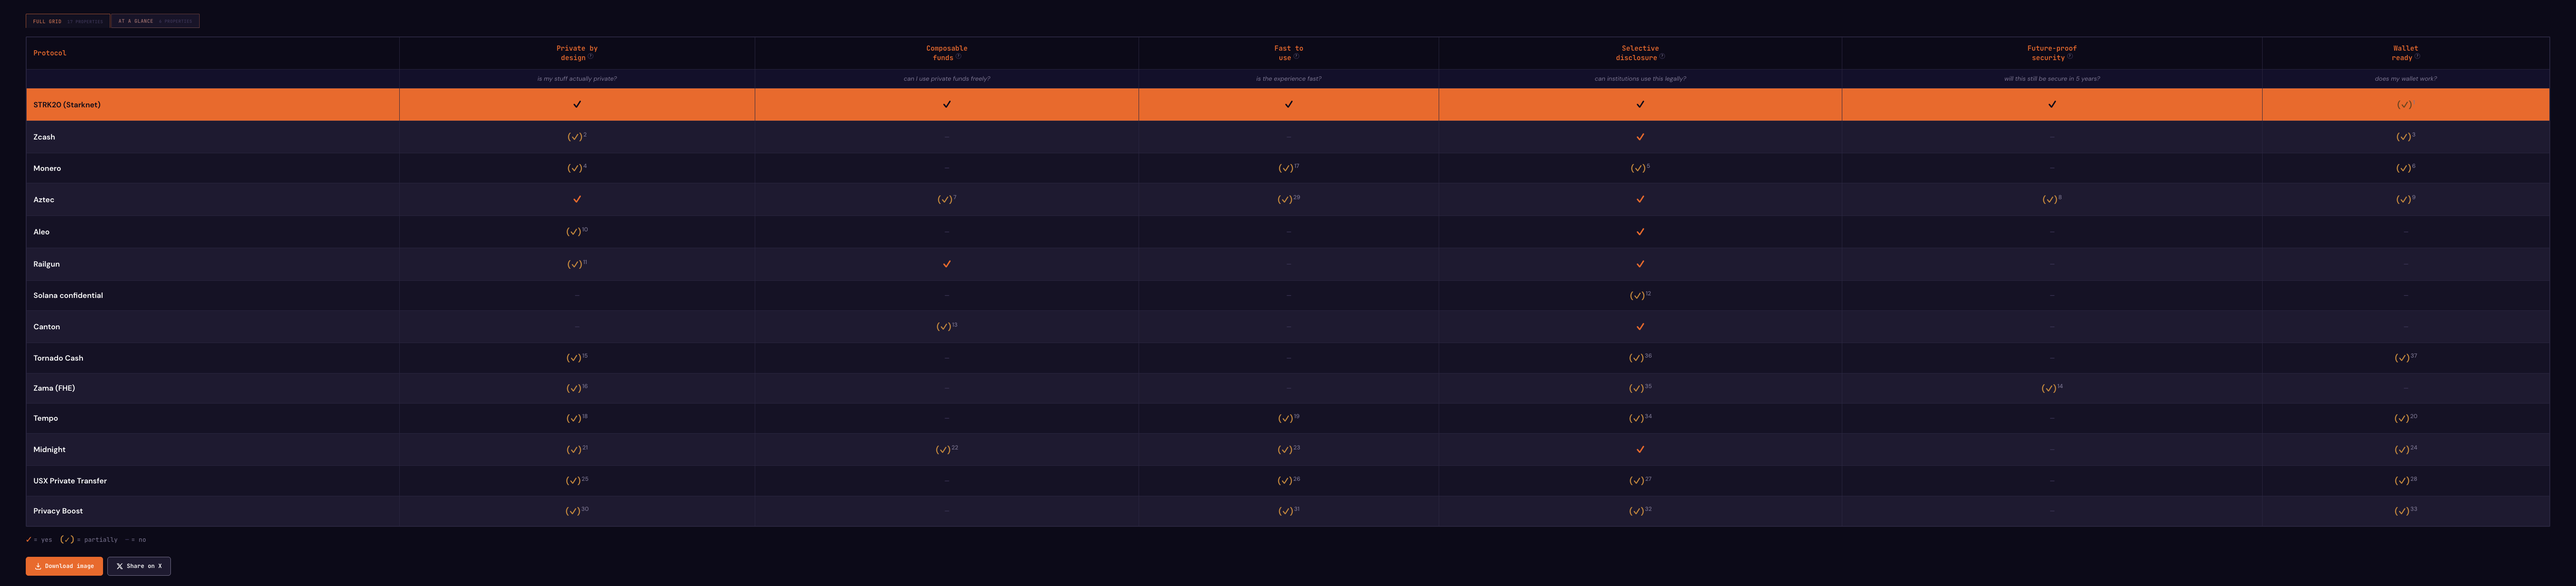
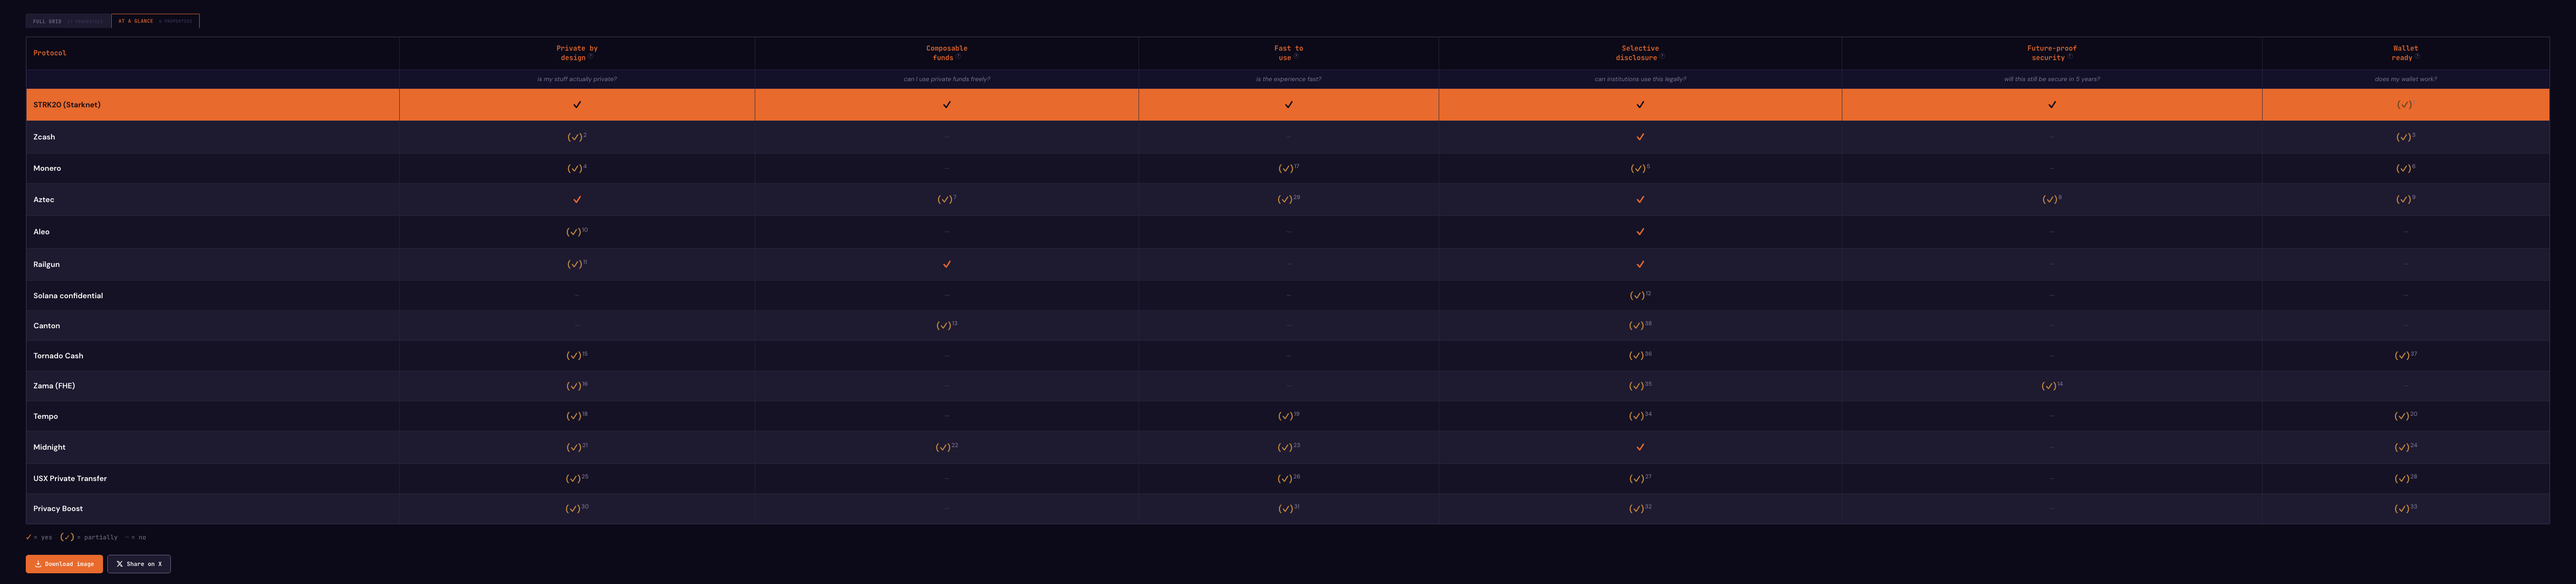
Address grid audit followups

diff --git a/docs/index.html b/docs/index.html
@@ -20,6 +20,11 @@
   "operatingSystem": "Web",
   "creator": {
     "@type": "Organization",
+    "name": "StarkWare Industries Ltd.",
+    "url": "https://starkware.co/"
+  },
+  "contributor": {
+    "@type": "Organization",
     "name": "welttowelt",
     "url": "https://github.com/welttowelt"
   },
@@ -32,9 +37,9 @@
 <!-- Open Graph -->
 <meta property="og:title" content="Privacy Protocol Grid">
 <meta property="og:description" content="What 14 crypto privacy protocols actually deliver: STRK20, Zcash, Monero, Aztec, Aleo, Railgun, Midnight, Tempo, USX, Privacy Boost. 17 properties, sources listed in footnotes.">
-<meta property="og:image" content="https://privacygrid.dev/privacy_grid_image.png?v=16">
+<meta property="og:image" content="https://privacygrid.dev/privacy_grid_image.png?v=17">
 <meta property="og:image:width" content="6000">
-<meta property="og:image:height" content="1439">
+<meta property="og:image:height" content="1441">
 <meta property="og:url" content="https://privacygrid.dev/">
 <meta property="og:type" content="website">
 <meta property="og:site_name" content="Privacy Protocol Grid">
@@ -43,7 +48,7 @@
 <meta name="twitter:card" content="summary_large_image">
 <meta name="twitter:title" content="Privacy Protocol Grid">
 <meta name="twitter:description" content="14 protocols. 17 properties. Sources in footnotes.">
-<meta name="twitter:image" content="https://privacygrid.dev/privacy_grid_image.png?v=16">
+<meta name="twitter:image" content="https://privacygrid.dev/privacy_grid_image.png?v=17">
 <meta name="twitter:image:alt" content="Privacy Protocol Grid comparing 14 protocols across 17 properties">
 
 <link rel="icon" type="image/svg+xml" href="favicon.svg">
@@ -88,7 +93,7 @@
     <span class="status-sep">&bull;</span>
     <span>SOURCES LISTED IN FOOTNOTES</span>
     <span class="status-sep">&bull;</span>
-    <span>APRIL 2026</span>
+    <span>UPDATED MAY 12, 2026</span>
   </div>
 </div>
 
@@ -162,7 +167,7 @@
         <span class="legend-item"><span class="tick-dash">&ndash;</span> = not present</span>
       </div>
       <div class="share-bar">
-        <a href="privacy_grid_image.png?v=16" download="privacy_protocol_grid.png" class="share-btn download-btn">
+        <a href="privacy_grid_image.png?v=17" download="privacy_protocol_grid.png" class="share-btn download-btn">
           <svg width="16" height="16" viewBox="0 0 16 16" fill="none"><path d="M8 1v9m0 0L5 7m3 3l3-3M2 12v1a2 2 0 002 2h8a2 2 0 002-2v-1" stroke="currentColor" stroke-width="1.5" stroke-linecap="round" stroke-linejoin="round"/></svg>
           Download image
         </a>
@@ -206,7 +211,7 @@
         <span class="legend-item"><span class="tick-dash">&ndash;</span> = no</span>
       </div>
       <div class="share-bar">
-        <a href="privacy_at_a_glance_image.png?v=16" download="privacy_at_a_glance.png" class="share-btn download-btn">
+        <a href="privacy_at_a_glance_image.png?v=17" download="privacy_at_a_glance.png" class="share-btn download-btn">
           <svg width="16" height="16" viewBox="0 0 16 16" fill="none"><path d="M8 1v9m0 0L5 7m3 3l3-3M2 12v1a2 2 0 002 2h8a2 2 0 002-2v-1" stroke="currentColor" stroke-width="1.5" stroke-linecap="round" stroke-linejoin="round"/></svg>
           Download image
         </a>
@@ -374,19 +379,19 @@
 <!-- Tooltip -->
 <div class="tooltip" id="tooltip"></div>
 
-<script src="data.js?v=17"></script>
+<script src="data.js?v=18"></script>
 <script src="app.js?v=7"></script>
 <!-- Crawler-only prose + FAQ (visually hidden, readable by search engines and LLMs) -->
 <div class="sr-only">
 <section>
   <h2>How privacy protocols compare</h2>
-  <p>As of April 2026, there are fourteen major privacy protocols in crypto, each taking a fundamentally different approach. This grid evaluates them across 17 technical properties in four categories: privacy model, cryptographic foundation, performance and UX, and ecosystem access.</p>
+  <p>As of May 12, 2026, there are fourteen major privacy protocols in crypto, each taking a fundamentally different approach. This grid evaluates them across 17 technical properties in four categories: privacy model, cryptographic foundation, performance and UX, and ecosystem access.</p>
   <h3>Privacy model</h3>
   <p>STRK20 on Starknet, Aztec, Railgun, and Privacy Boost all support multi-asset privacy pools, meaning multiple token types share a single anonymity set. Midnight supports multiple shielded token types, but its docs do not yet establish one canonical shared pool. Zcash and Monero are single-asset only. STRK20 is one of the few rows where users are not expected to preserve separate per-note secret material outside the normal account flow, and it pairs that model with Starknet account abstraction. Most other protocols require two or more key pairs or independent note material. For selective disclosure, STRK20, Zcash, Aztec, Aleo, Railgun, and Midnight all offer user-controlled ways to reveal transaction history to a chosen third party; Tornado Cash Classic supports a narrower Compliance Tool for proving a specific deposit/withdrawal link; Tempo, USX, and Privacy Boost expose more issuer-, operator-, or regulator-oriented disclosure paths.</p>
   <h3>Cryptographic foundation</h3>
   <p>STRK20 uses STARKs, which require no trusted setup and are post-quantum resistant by design (hash-based). Its formal zero-knowledge row is marked partial because STRK20 public copy describes zero-knowledge-backed private transactions, while public S-two docs still say the zero-knowledge feature was not available at time of writing. Zcash's Orchard upgrade uses Halo 2 (no setup), but its older Sapling pool still relies on a trusted ceremony. Aztec uses PLONK with a universal updatable SRS. Railgun, Privacy Boost, and Tornado Cash use Groth16, which requires per-circuit ceremonies. On post-quantum security, STARKs (Starknet) and TFHE lattice-based cryptography (Zama) are the two approaches in the grid treated as quantum-resistant, with Zama marked partial because its model is not succinct ZK verification.</p>
   <h3>Performance and UX</h3>
-  <p>STRK20 offers one of the fastest disclosed user-facing shielding paths: ~2s block confirmation plus sub-5s proof generation in the current backend-prover fast path. The grid separates that from client-side/mobile proving, which is still a roadmap item for STRK20. Zcash is bottlenecked by ~75s block times. Privacy Boost advertises sub-500ms TEE proof generation and high throughput through epoch batching, but transfers settle when relays submit epochs and the privacy path depends on an enclave operator. Aztec runs ~6s blocks in Alpha Mainnet (launched March 31, 2026), but the team has also published alpha-stage security warnings and told users not to put in funds they are not willing to lose. Midnight uses client-side proving on a roughly 6-second block cadence, but has not yet published a public mainnet latency benchmark. Railgun imposes a mandatory 1-hour standby after shielding. Monero is always private by default but has no opt-out to a transparent state. For scalability, the grid no longer prints base-chain TPS as STRK20 private-transfer TPS; Aztec currently processes about 1 TPS in its Alpha phase.</p>
+  <p>STRK20 offers one of the fastest disclosed user-facing shielding paths: ~2s block confirmation plus sub-5s proof generation in the current backend-prover fast path. The grid separates that from client-side/mobile proving, which is still a roadmap item for STRK20. Zcash is bottlenecked by ~75s block times. Privacy Boost advertises sub-500ms TEE proof generation and high throughput through epoch batching, but transfers settle when relays submit epochs and the privacy path depends on an enclave operator. Aztec runs ~6s blocks in Alpha Mainnet (launched March 31, 2026), but Aztec's own Alpha security posts describe the network as experimental alpha software with known vulnerabilities and caution users about value at risk. Midnight uses client-side proving on a roughly 6-second block cadence, but has not yet published a public mainnet latency benchmark. Railgun imposes a mandatory 1-hour standby after shielding. Monero is always private by default but has no opt-out to a transparent state. For scalability, the grid no longer prints base-chain TPS as STRK20 private-transfer TPS; Aztec currently processes about 1 TPS in its Alpha phase.</p>
   <h3>Ecosystem and DeFi</h3>
   <p>STRK20 and Railgun are the only protocols where existing DeFi contracts require zero custom integration for private transactions. Railgun works across Ethereum, Polygon, Arbitrum, and BSC. Aztec, Canton, Midnight, Tempo, Aleo, and Privacy Boost have privacy-capable application environments, SDKs, or token standards within their own ecosystems but are not composable with existing Ethereum or Starknet DeFi without custom integration or unshielding. Starknet, Zcash, Monero, Solana, Canton, and Tornado Cash all have established deployed ecosystems with real liquidity or usage history. Tempo and Midnight are newly live and still early. USX is live on Scroll with a modest footprint, while its private-transfer docs are still marked live soon. Privacy Boost is live as an OP Mainnet beta and has announced Startale/Soneium integration, but public usage telemetry is not yet available. Zama mainnet is live with early applications and infrastructure integrations, but its ecosystem is still nascent.</p>
   <h3>What each protocol is best suited for</h3>

diff --git a/docs/data.js b/docs/data.js
@@ -140,7 +140,7 @@ const fullFootnotes = {
   9: sourced("access-control privacy model (parties see only their part of a transaction). fundamentally different from ZK-based privacy: counterparties and validators see your data", ["canton-overview", "canton-requirements"]),
   10: sourced("DeFi exists within Canton\u2019s own Daml ecosystem. requires Daml, a separate smart contract language. not composable with Ethereum/Starknet DeFi", ["canton-defi", "canton-overview"]),
   11: sourced("horizontal scaling via network-of-networks. each node only processes its own transactions. claims no upper bound on TPS, but access-control privacy model", ["canton-overview", "canton-security"]),
-  12: sourced("mainnet since Sep 2024. USDCx with Circle launched Jan 2026. 350+ apps on testnet. but DeFi ecosystem still nascent", ["aleo-mainnet", "circle-xreserve"]),
+  12: sourced("mainnet since Sep 2024. Circle xReserve added support for USDCx on Aleo mainnet and testnet on Jan 27, 2026. Aleo's Sep 2024 launch post cited 350 applications deployed on Aleo and over 350 teams built or building, but the live DeFi ecosystem is still nascent", ["aleo-mainnet", "circle-xreserve"]),
   13: sourced("off-chain execution model enables scalable private computation, but no composability between private applications limits real-world DeFi throughput", ["aleo-docs"]),
   14: sourced("official hardware-wallet support is limited: Trezor\u2019s Zcash page says shielded z-address transactions are not compatible, while Ledger\u2019s public page documents ZEC wallet support without establishing full shielded Orchard flows", ["zcash-trezor", "zcash-ledger"]),
   15: sourced("PXE client-side proving works but proving times still being optimized. variable depending on circuit complexity", ["aztec-pxe"]),
@@ -200,8 +200,8 @@ const glanceProjects = [
     ticks: [false, false, false, "partial", false, false],
     fnMap: {3: 12} },
   { name: "Canton",
-    ticks: [false, "partial", false, true, false, false],
-    fnMap: {1: 13} },
+    ticks: [false, "partial", false, "partial", false, false],
+    fnMap: {1: 13, 3: 38} },
   { name: "Tornado Cash",
     ticks: ["partial", false, false, "partial", false, "partial"],
     fnMap: {0: 15, 3: 36, 5: 37} },
@@ -260,6 +260,7 @@ const glanceFootnotes = {
   35: sourced("Zama can grant granular decryption permissions via ACL/user decryption, but disclosure is app-defined and not a wallet-level viewing-key model", ["zama-acl", "zama-user-decryption"]),
   36: sourced("the Tornado Cash Classic Compliance Tool can prove a specific deposit/withdrawal link, but it is not broad viewing-key disclosure for ongoing transaction history", ["tornado-compliance"]),
   37: sourced("standard Ethereum wallets can interact with Tornado Cash, but Classic note management and recovery remain separate from normal wallet UX and are not documented as hardware-wallet-native", ["tornado-how", "tornado-backups"]),
+  38: sourced("Canton provides sub-transaction privacy and full auditability through access control, but this is not user-issued ZK viewing-key disclosure", ["canton-overview", "canton-requirements"]),
 };
 
 // Column definitions grouped by category

diff --git a/docs/terms.html b/docs/terms.html
@@ -26,7 +26,7 @@
   <div class="container" style="max-width: 800px;">
     <a href="./" class="terms-back">&larr; Back to grid</a>
     <h1>Terms of Service</h1>
-    <p class="terms-revised">Last Revised: April 8, 2026</p>
+    <p class="terms-revised">Last Revised: May 12, 2026</p>
 
     <p>StarkWare Industries Ltd. (&ldquo;StarkWare&rdquo;, &ldquo;we&rdquo;, &ldquo;our&rdquo;) welcomes you (the &ldquo;User(s)&rdquo;, or &ldquo;you&rdquo;) to <a href="https://privacygrid.dev/" target="_blank" rel="noopener">https://privacygrid.dev/</a> (the &ldquo;Site&rdquo;), a website that provides information about privacy protocols in crypto, including strk20. Each User may use the Site in accordance with, and subject to, the terms and conditions hereunder.</p>
 
@@ -133,8 +133,6 @@
     <p>You may not assign these Terms without StarkWare&rsquo;s consent. StarkWare may assign them freely.</p>
 
     <p>All correspondence relating to these Terms must be written in English.</p>
-
-    <p>1337 rules the world</p>
 
   </div>
 </section>
